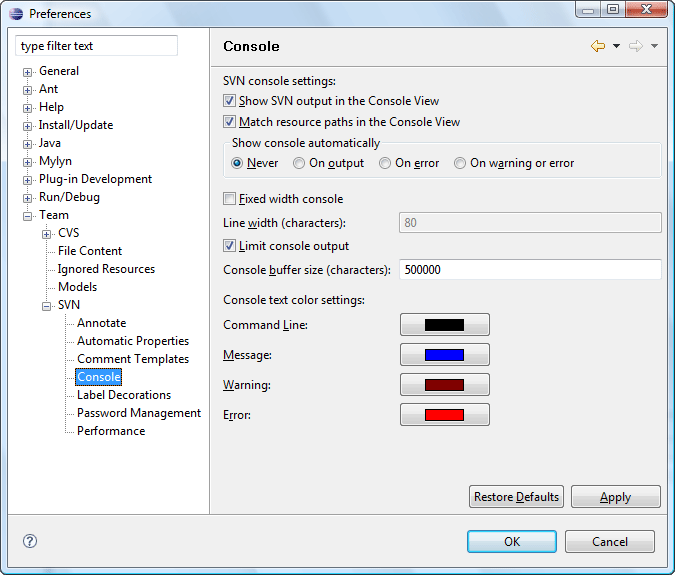
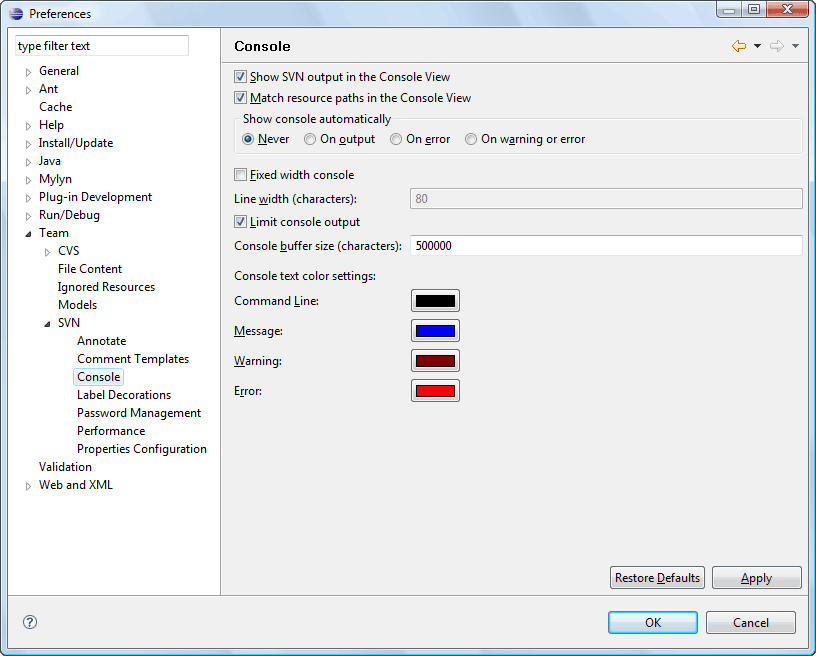
Updating help according to build changes.

diff --git a/org.eclipse.team.svn.help/preferences/pref_svn.html b/org.eclipse.team.svn.help/preferences/pref_svn.html
@@ -52,6 +52,12 @@
 				<td class="header" align ="center" valign="center">Default</td>
 			</tr>
 			<tr>
+				<td align ="center" valign="center">Detect deleted projects before update</td>
+				<td align ="center" valign="center">Specifies if the plug-in should detect if the project the user is trying to update have been
+				removed from the repository.</td>
+				<td align ="center" valign="center">Enabled</td>
+			</tr>
+			<tr>
 				<td align ="center" valign="center">Check the new resources in the commit dialog</td>
 				<td align ="center" valign="center">Specifies if the plug-in should check the new resources in the commit dialog.</td>
 				<td align ="center" valign="center">Enabled</td>
@@ -79,8 +85,8 @@
 		</table><br/>
 		This is how <i>'General'</i> tab group looks like:
 		<br/><br/><img border="0" src="../images/pref_general.png" alt="General tab group"/><br/><br/>
-		<b>SVN Client</b><br/>
-		<p>Here the user can choose the SVN&reg; client he wants to use.</p>
+		<b>SVN Connector</b><br/>
+		<p>Here the user can choose the SVN&reg; connector he wants to use.</p>
 		<table cellpadding="5" cellspacing="0" border="1" width="100%">
 			<tr>
 				<td class="header" align ="center" valign="center">Option</td>
@@ -88,18 +94,18 @@
 				<td class="header" align ="center" valign="center">Default</td>
 			</tr>
 			<tr>
-				<td align ="center" valign="center">SVN Client</td>
-				<td align ="center" valign="center">Allows to choose witch SVN client to use.</td>
+				<td align ="center" valign="center">SVN Connector</td>
+				<td align ="center" valign="center">Allows to choose witch SVN connector to use.</td>
 				<td align ="center" valign="center">Subversive Default</td>
 			</tr>
 			<tr>
-				<td align ="center" valign="center">Use interactive merge</td>
-				<td align ="center" valign="center">When chosen Subversive allows to use Synchronize View features during the merging (experimental feature).</td>
+				<td align ="center" valign="center">Use SVN Merge View</td>
+				<td align ="center" valign="center">When chosen Subversive allows to use Synchronize View features during the merging.</td>
 				<td align ="center" valign="center">Disabled</td>
 			</tr>
 		</table><br/>
-		This is how <i>'SVN Client'</i> tab group looks like:
-		<br/><br/><img border="0" src="../images/pref_client.png" alt="SVN Client tab group"/><br/><br/>
+		This is how <i>'SVN Connector'</i> tab group looks like:
+		<br/><br/><img border="0" src="../images/pref_client.png" alt="SVN Connector tab group"/><br/><br/>
 		<b>Repository</b><br/>
 		<p>Here the user can configure repository structure.</p>
 		<table cellpadding="1" cellspacing="0" border="0">
@@ -186,18 +192,8 @@
 				<td class="header" align ="center" valign="center">Default</td>
 			</tr>
 			<tr>
-				<td align ="center" valign="center">Report revision change for folders</td>
-				<td align ="center" valign="center">Allows plug-into notify user about folder's revision change in 'Synchronize View'.</td>
-				<td align ="center" valign="center">Disabled</td>
-			</tr>
-			<tr>
 				<td align ="center" valign="center">Show synchronize info contiguous</td>
 				<td align ="center" valign="center">Specifies if the synchronization info will be get in series (Enabled) or in whole (Disabled).</td>
-				<td align ="center" valign="center">branches</td>
-			</tr>
-			<tr>
-				<td align ="center" valign="center">Tags</td>
-				<td align ="center" valign="center">Default repository root name for tags.</td>
 				<td align ="center" valign="center">Enabled</td>
 			</tr>
 			<tr>

diff --git a/org.eclipse.team.svn.help/preferences/pref_autoprops.html b/org.eclipse.team.svn.help/preferences/pref_autoprops.html
@@ -1,7 +1,7 @@
 <!DOCTYPE html PUBLIC "-//W3C//DTD HTML 4.0 Transitional//EN">
 <html>
 <head>
-	<title>Automatic Properties</title>
+	<title>Properties Configuration</title>
 	<meta name="copyright"  content="Copyright (c) 2005-2007 Polarion Software. All rights reserved. This page is provided under the terms of the Eclipse Public License v1.0 which accompanies this distribution, and is available at http://www.eclipse.org/legal/epl-v10.html Contributors: Alexander Gurov."/>
 	<LINK REL="STYLESHEET" HREF="../book.css" CHARSET="ISO-8859-1" TYPE="text/css"/>
 	<script language="JavaScript" src="PLUGINS_ROOT/org.eclipse.help/livehelp.js"></script>
@@ -18,13 +18,14 @@
 			</td>
 		</tr>
 	</table>
-	<h2>Automatic Properties</h2>
+	<h2>Properties Configuration</h2>
 	<p>
-		These preferences can be changed on <a class="command-link" href='javascript:executeCommand("org.eclipse.ui.window.preferences(preferencePageId=org.eclipse.team.svn.ui.SVNTeamAutoPropsPreferences)")'>
+		These preferences can be changed on <a class="command-link" href='javascript:executeCommand("org.eclipse.ui.window.preferences(preferencePageId=org.eclipse.team.svn.ui.SVNTeamPropsPreferences)")'>
 			<img src="PLUGINS_ROOT/org.eclipse.help/command_link.png"/>
-			<i>'Team>SVN>Automatic Properties'</i>
-		</a> properties page. On this page user can Import, Export, Add, Remove and Edit automatic properties for specified files. To do described actions use appropriate buttons.
-	</p>
+			<i>'Team>SVN>Properties Configuration'</i>
+		</a> properties page.</p>
+	<b>Automatic properties</b>	
+	<p>On this tab group user can Import, Export, Add, Remove and Edit automatic properties for specified files. To do described actions use appropriate buttons.</p>
 	<table cellpadding="1" cellspacing="0" border="0">
 		<tr>
 			<td valign="top" align="right">
@@ -43,8 +44,14 @@
 			</td>
 		</tr>
 	</table>
-	This is how <i>'Automatic Properties'</i> properties page looks like:
-	<br/><br/><img border="0" src="../images/pref_autoprops.png" alt="Automatic Properties properties page"/>
+	This is how <i>'Automatic properties'</i> tab group looks like:
+	<br/><br/><img border="0" src="../images/pref_autoprops.png" alt="Automatic Properties tab group"/>
+	<br/><br/>
+	<b>Custom properties</b>	
+	<p>On this tab group the user can Add, Remove and Edit custom properties to be shown in a combo of an <i>'Add property'</i> dialog. There is a probability for the user to enter property name, its description and
+	a regular expression to be used for validating property before setting it.</p>
+	This is how <i>'Custom properties'</i> tab group looks like:
+	<br/><br/><img border="0" src="../images/pref_customprops.png" alt="Custom Properties tab group"/>
 	<br/>
 	<img border="0" src="../images/rel_tops.png" alt="Related topics"/>
 	<br/>

diff --git a/org.eclipse.team.svn.help/teamSupport/SVNaction/patch.html b/org.eclipse.team.svn.help/teamSupport/SVNaction/patch.html
@@ -22,9 +22,9 @@
 	<p>Patch is an information on differences of revisions (remote patch creating) or differences between workspace copy and base revision. The user can save this info to clipboard or to specified local file system file or project file. To perform the action click on the <i>'Team>Create Patch...'</i> menu item of the resource pop-up menu <i>'Create Patch...'</i> menu item of the <i>'SVN main menu group'</i>. The wizard will help the user to perform the operation.</p>
 	<p>If the user is creating a remote patch the first page of the wizard provides a probability to choose a revision number to create patch comparatively to:</p>
 	<img border = "0" src="../../images/create_patch.png" alt="Create patch wizard"/>
-	<p>The second (first) page of the wizards offers the user to choose, where does he want to save patch information:</p>
+	<p>The second (first) page of the wizards offers the user to choose, where does he want to save patch information and if the patch is local choose the resources to be included into:</p>
 	<img border = "0" src="../../images/create_patch2.png" alt="Create patch wizard"/>
-	<p>The third (second) and the last page of the wizard allows the user to choose what information shall the patch contain:</p>
+	<p>The third (second) and the last page of the wizard allows the user to choose what information shall the patch contain and a root or the patch:</p>
 	<img border = "0" src="../../images/create_patch3.png" alt="Create patch wizard"/>
 	<p>Later created patch may be applied to another revision of the resource.</p>
 	<p><b>Applying patch</b></p>

diff --git a/org.eclipse.team.svn.help/teamSupport/new_location_wiz.html b/org.eclipse.team.svn.help/teamSupport/new_location_wiz.html
@@ -83,9 +83,9 @@
 			<td class="header" align ="center" valign="center">Default</td>
 		</tr>
 		<tr>
-			<td align ="center" valign="center">Enable Structure  Detection</td>
+			<td align ="center" valign="center">Enable Structure Detection</td>
 			<td align ="center" valign="center">Specifies if the Subversion&reg; should detect the structure of repository.</td>
-			<td align ="center" valign="center">Enable</td>
+			<td align ="center" valign="center">Enabled</td>
 		</tr>
 		<tr>
 			<td align ="center" valign="center">Trunk</td>
@@ -101,6 +101,31 @@
 			<td align ="center" valign="center">Tags</td>
 			<td align ="center" valign="center">Specifies tags name to use for structure detection.</td>
 			<td align ="center" valign="center">tags</td>
+		</tr>
+		<tr>
+			<td align ="center" valign="center">Override author name with represented below</td>
+			<td align ="center" valign="center">Specifies if the author name should be overridden for repository affecting operations.</td>
+			<td align ="center" valign="center">Disabled</td>
+		</tr>
+	</table>
+	</br>
+	<table cellpadding="1" cellspacing="0" border="0">
+		<tr>
+			<td valign="top" align="left">
+				<p align="left">
+					<i>
+						<b>Note:</b>
+					</i>
+				</p>
+			</td>
+			<td valign="top">
+				<p>
+					<i>
+						Please pay special attention that <b>pre-revprop-change</b> hook should be implemented for the repository and should allow to change
+						"svn:author" revision property. 
+					</i>
+				</p>
+			</td>
 		</tr>
 	</table>
 	<p>This is how <i>'Advanced'</i> tab group looks like:</p>

diff --git a/org.eclipse.team.svn.help/teamSupport/SVNaction/set_props.html b/org.eclipse.team.svn.help/teamSupport/SVNaction/set_props.html
@@ -18,7 +18,8 @@
 		</tr>
 	</table>
 <h3>Setting properties</h3>
-	<p>To set SVN&reg; Properties click on the <i>'Team>Set Property...'</i> menu item of the resource pop-up menu <i>'Set Property...'</i> menu item of the <i>'SVN main menu group'</i>. The dialog provides a probability to choose a SVN&reg; Property name from a combo-box and type or get from file a property value.</p>
+	<p>To set SVN&reg; Properties click on the <i>'Team>Set Property...'</i> menu item of the resource pop-up menu <i>'Set Property...'</i> menu item of the <i>'SVN main menu group'</i>. The dialog provides a probability to choose a SVN&reg; Property name from a combo-box and type or get from file a property value.
+	For standard svn, tsvn and bugtraq properties validation is enabled by default, for custom properties the user can enter a validation regular expression on the appropriate preferences page.</p>
 	<p>This is how the <i>'Set Property Dialog'</i> looks like:</p>
 	<img border = "0" src="../../images/add_prop.png" alt="Set Property dialog"/>
 	<br/>
@@ -28,6 +29,6 @@
 	<br/>
 	<a href="../../teamSupport/props_view.html">SVN Properties View</a>
 	<br/>
-	<a href="../../preferences/pref_autoprops.html">Automatic Properties</a>
+	<a href="../../preferences/pref_autoprops.html">Properties Configuration</a>
 </body>
 </html>

diff --git a/org.eclipse.team.svn.help/teamSupport/SVNaction/merge.html b/org.eclipse.team.svn.help/teamSupport/SVNaction/merge.html
@@ -31,12 +31,15 @@
 			<td valign="top">
 				<p>
 					<i>
-						If there were some conflics during the merge operation cycle SVN&reg; merges what it can and notify the user about the conflict. Then three file are created: 'name'.tmp (copy of the user's local file before update), 'name'.tmp2 (copy of the first revision file) and 'name'.tmp3 (copy of the second revision file). So the edit conflicts action must be run to resolve conflicts.
+						If there were some conflicts during the merge operation cycle SVN&reg; merges what it can and notify the user about the conflict. Then three file are created: 'name'.tmp (copy of the user's local file before update), 'name'.tmp2 (copy of the first revision file) and 'name'.tmp3 (copy of the second revision file). So the edit conflicts action must be run to resolve conflicts.
 					</i>
 				</p>
 			</td>
 		</tr>
 	</table>
+	<p>If the option of interactive merge is enabled then the merge results preview is shown in the <i>'SVN Merge View'</i>. The incoming and
+	maybe conflicting changes are shown there.</p>
+	<img border="0" src="../../images/merge_view.png" alt="Related topics"/></br>
 	<img border="0" src="../../images/rel_tops.png" alt="Related topics"/>
 	<br/>
 	<a href="../../teamSupport/merge_dialog.html">SVN Merge Dialog</a>

diff --git a/org.eclipse.team.svn.help/preferences/pref_label_decors.html b/org.eclipse.team.svn.help/preferences/pref_label_decors.html
@@ -43,20 +43,13 @@
 				</td>
 			</tr>
 		</table>
-		<table cellpadding="5" cellspacing="0" border="1" width="100%">
-			<tr>
-				<td class="header" align ="center" valign="center">Option</td>
-			<td class="header" align ="center" valign="center">Description</td>
-			<td class="header" align ="center" valign="center">Default</td>
-		</tr>
-		<tr>
-			<td align ="center" valign="center">Enable font and color decorations</td>
-			<td align ="center" valign="center">Specifies either font and color decorations for a Package Explorer enabled or not.</td>
-			<td align ="center" valign="center">Disabled</td>
-		</tr>
-	</table><br/>
+		</br>
 	This is how <i>'Label Decorations'</i> properties page looks like:
 	<br/><br/><img border="0" src="../images/pref_label_decors.png" alt="Label Decorations properties page"/>
+	<br/>
+	<img border="0" src="../images/pref_label_decors2.png" alt="Label Decorations properties page"/>
+	<br/>
+	<img border="0" src="../images/pref_label_decors3.png" alt="Label Decorations properties page"/>
 	<br/>
 	<img border="0" src="../images/rel_tops.png" alt="Related topics"/>
 	<br/>

diff --git a/org.eclipse.team.svn.help/index.html b/org.eclipse.team.svn.help/index.html
@@ -48,13 +48,12 @@
 		<ul>
 		<li><a href="preferences/pref_svn.html">SVN</a></li>
 		<li><a href="preferences/pref_annotate.html">Annotate</a></li>
-		<li><a href="preferences/pref_autoprops.html">Automatic Properties</a></li>
-
 		<li><a href="preferences/pref_comments.html">Comment Templates</a></li>
 		<li><a href="preferences/pref_console.html">Console</a></li>
 		<li><a href="preferences/pref_label_decors.html">Label Decorations</a></li>
 		<li><a href="preferences/pref_pass.html">Password Management</a></li>
 		<li><a href="preferences/pref_performance.html">Performance</a></li>
+		<li><a href="preferences/pref_autoprops.html">Properties Configuration</a></li>
 		</ul>
 
 		</li>

diff --git a/org.eclipse.team.svn.help/prefs.html b/org.eclipse.team.svn.help/prefs.html
@@ -33,8 +33,6 @@
 		<br/>
 		<a href="preferences/pref_annotate.html">Annotate</a>
 		<br/>
-		<a href="preferences/pref_autoprops.html">Automatic Properties</a>
-		<br/>
 		<a href="preferences/pref_comments.html">Comment Templates</a>
 		<br/>
 		<a href="preferences/pref_console.html">Console</a>
@@ -44,5 +42,7 @@
 		<a href="preferences/pref_pass.html">Password Management</a>
 		<br/>
 		<a href="preferences/pref_performance.html">Performance</a>
+		<br/>
+		<a href="preferences/pref_autoprops.html">Properties Configuration</a>
 	</body>
 </html>
